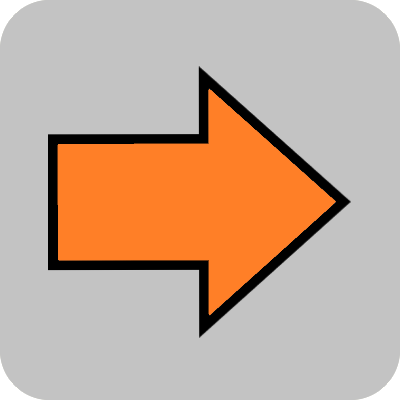
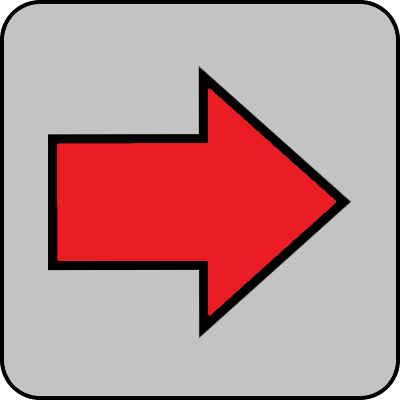
changed background and updates MysterySelection images

Changed region(s): [[0.12, 0.21, 0.84, 0.81], [0.03, 0.03, 1.0, 1.0], [0.0, 0.0, 0.96, 0.96]]

diff --git a/src/ui/GameplayState.java b/src/ui/GameplayState.java
@@ -41,7 +41,7 @@ public class GameplayState extends BasicGameState {
     @Override
     public void init(GameContainer container, StateBasedGame game) throws SlickException {
         // Setzen des Hintergrunds
-        container.getGraphics().setBackground(Color.black);
+        container.getGraphics().setBackground(Color.gray);
 
         // Bei Drücken der ESC-Taste zurueck ins Hauptmenue wechseln
         Entity esc_Listener = new Entity("ESC_Listener");
